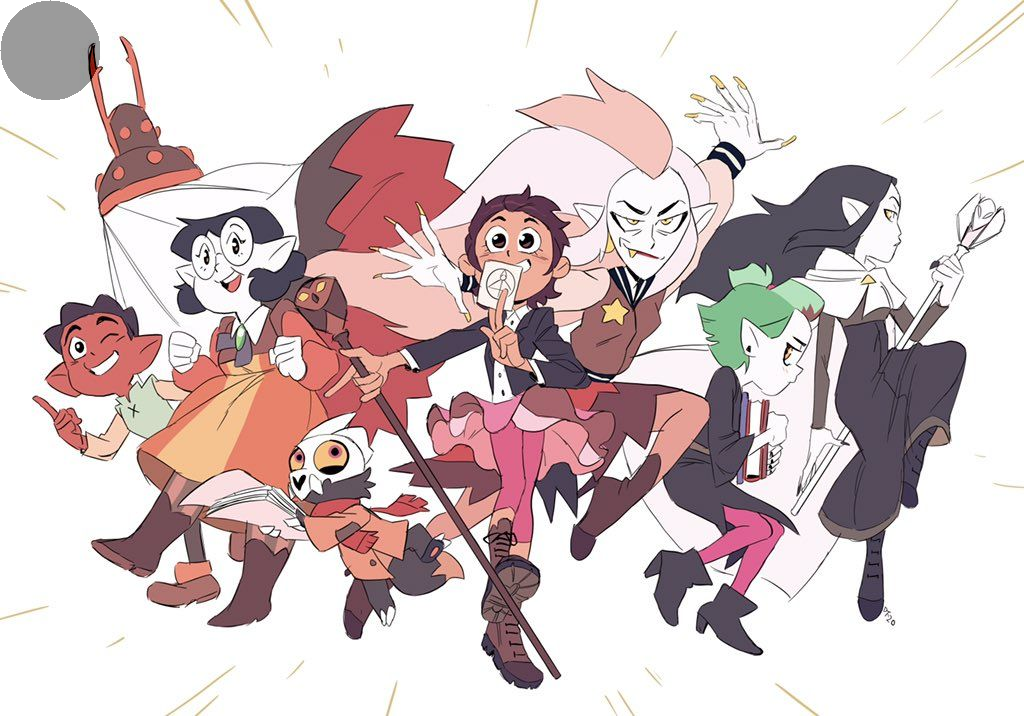
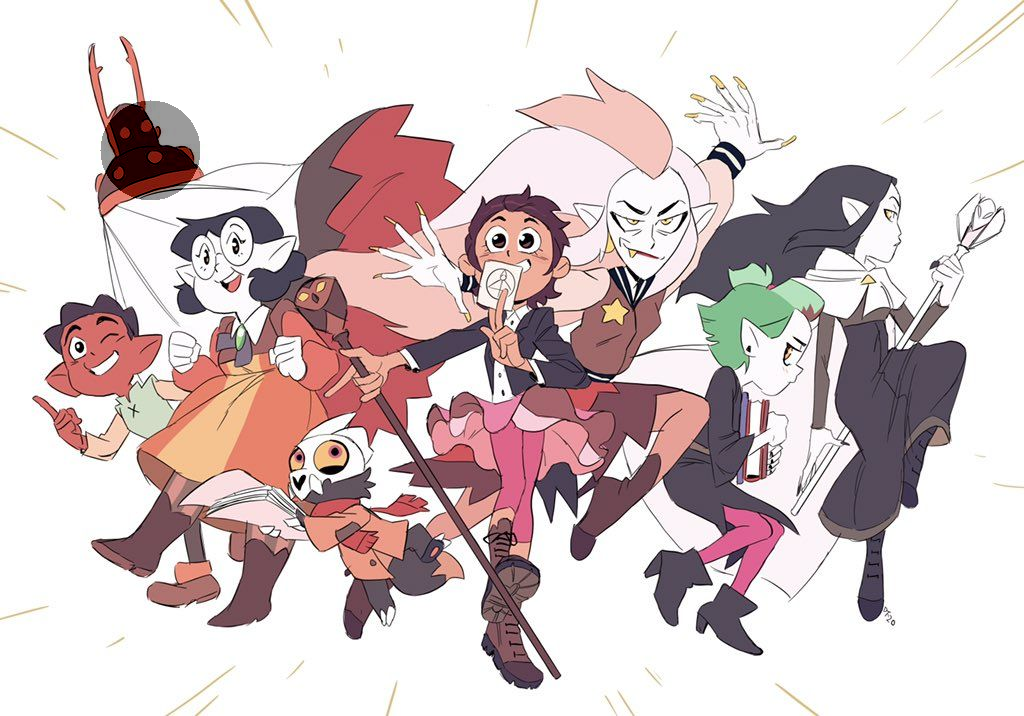
Luminosité

Changed region(s): [[0.0938, 0.1229, 0.2188, 0.2765], [0.0, 0.0, 0.125, 0.1536]]

diff --git a/src/metier/Paint.java b/src/metier/Paint.java
@@ -293,17 +293,22 @@ public class Paint
 		}
 	}
 
+	/**
+	 * Changer la luminosité d'une zone circulaire.
+	 * @param xCenter
+	 * @param yCenter
+	 * @param radius
+	 * @param var
+	 */
+	public void setLuminosite(int xCenter, int yCenter, int radius, int var) {
 
-	public void setLuminosite(int xStart, int yStart, int xFin, int yFin, int radius, int var) {
-		// Calcul du centre du cercle
-		int x0 = (xStart + xFin) / 2;
-		int y0 = (yStart + yFin) / 2;
-	
-		for (int x = xStart; x < xFin; x++) {
-			for (int y = yStart; y < yFin; y++) {
-				int distancesquared = (x - x0) * (x - x0) + (y - y0) * (y - y0);
-
-				if (distancesquared <= radius * radius) {
+		for (int x = xCenter - radius; x < xCenter + radius; x++) {
+			for (int y = yCenter - radius; y < yCenter + radius; y++) 
+			{
+				if (x > 0 && x < this.width && y > 0 && y < this.height && 
+				    radius >= Math.sqrt( Math.pow( x - xCenter, 2 ) + Math.pow( y - yCenter, 2 ) ) 
+				   )
+				{
 					Image img = this.getClickedImage(x, y);
 					if (img != null) {
 						BufferedImage bi = img.getImg();
@@ -362,8 +367,10 @@ public class Paint
 			
 			// p.bucket(0, 0, Color.RED.getRGB(), 80);
 
-			// p.setLuminosite(img, -200);
-			p.setLuminosite(0,0,100,100, 50, -100);
+			// // p.setLuminosite(img, -200);
+			// p.setLuminosite(0,0,100,100, 50, -100);
+			// p.setLuminosite(200,200,100,100, 50, -100);
+			p.setLuminosite(150,150, 50, -100);
 
 			ImageIO.write(p.getImage(),"png",new File ("fin.png") );
 
